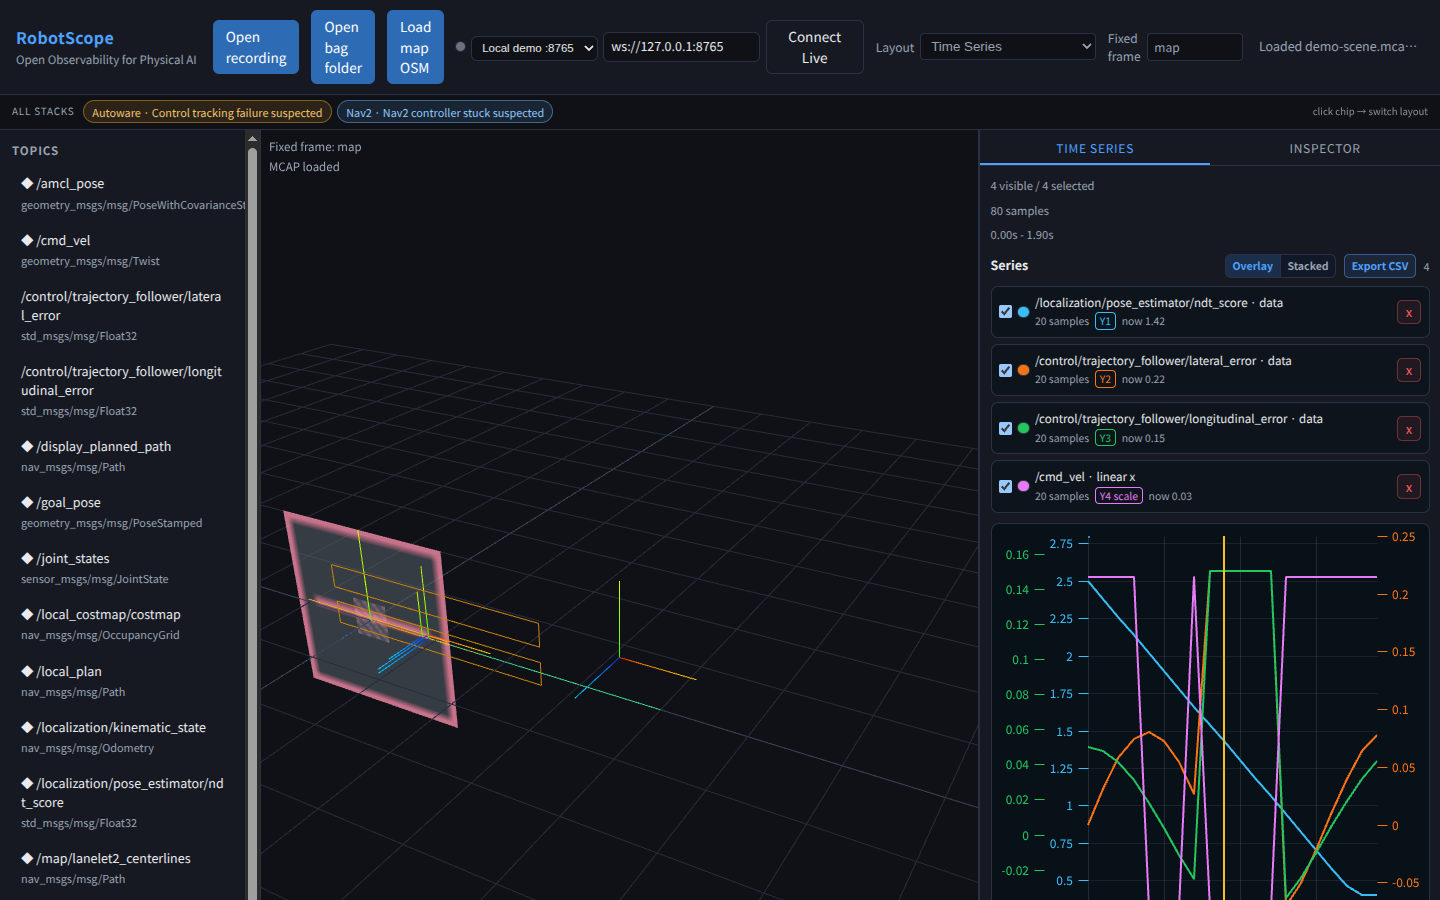
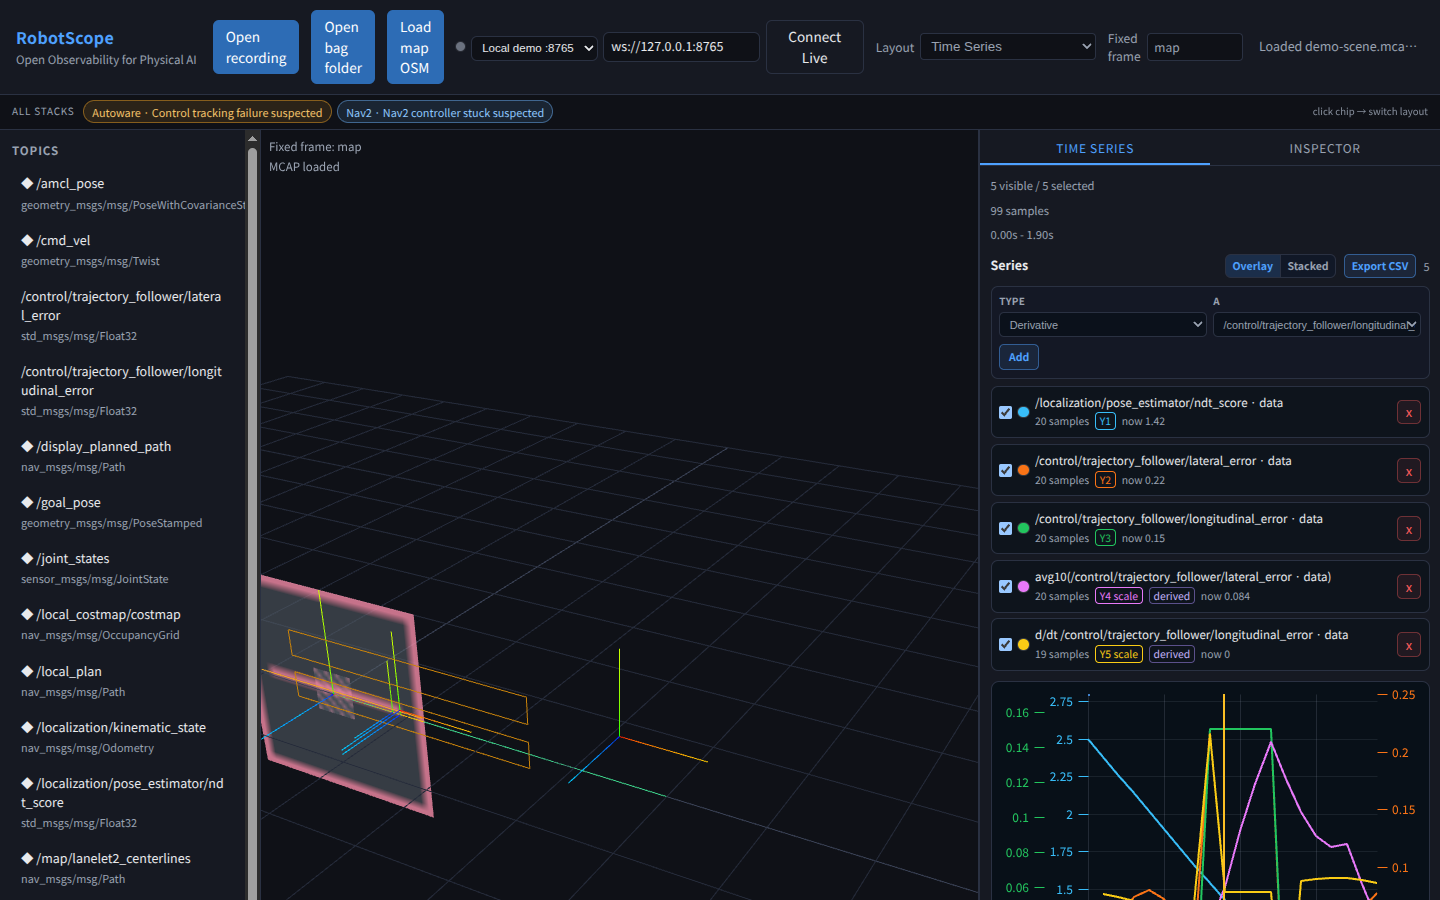
docs(readme): document time-series analysis channels (M7)
Mention derived analysis channels (moving average, derivative, series math)
in the time-series section and refresh the demo screenshot to show an
avg10 and a d/dt channel overlaid with the source signals.

diff --git a/README.md b/README.md
@@ -90,7 +90,7 @@ Open an MCAP file from the viewer (drag & drop) or click **Connect Live** for a 
 
 ### Time-series plots (PlotJuggler-style)
 
-The `timeseries` layout turns any numeric ROS2 field into a live plot next to the 3D scene. Pick fields from the catalog (click or drag), overlay multiple series with per-series Y axes, or stack them one-per-plot. Drag to zoom / wheel to pan with a shared time axis, click anywhere on a plot to seek the 3D scene and timeline, and export the visible series to CSV. Zooming refetches just the visible window at full resolution, so it stays responsive on large recordings.
+The `timeseries` layout turns any numeric ROS2 field into a live plot next to the 3D scene. Pick fields from the catalog (click or drag), overlay multiple series with per-series Y axes, or stack them one-per-plot. Add derived **analysis channels** — moving average, derivative (d/dt), or series math (A `+` `-` `*` `/` B) — computed live from the selected signals. Drag to zoom / wheel to pan with a shared time axis, click anywhere on a plot to seek the 3D scene and timeline, and export the visible series to CSV. Zooming refetches just the visible window at full resolution, so it stays responsive on large recordings. Works on MCAP, rosbag2, and live agents.
 
 <p align="center">
   <a href="https://rsasaki0109.github.io/RobotScope/?layout=timeseries&demo=1">
@@ -99,7 +99,7 @@ The `timeseries` layout turns any numeric ROS2 field into a live plot next to th
 </p>
 
 <p align="center">
-  <em>Time-series demo (<code>layout=timeseries</code>): lateral / longitudinal error and cmd_vel overlaid with per-series Y axes; click a plot to seek the 3D scene, zoom for full-resolution detail, export to CSV.</em>
+  <em>Time-series demo (<code>layout=timeseries</code>): localization score and lateral / longitudinal error overlaid with per-series Y axes, plus a moving-average and a d/dt analysis channel computed from them; click a plot to seek the 3D scene, zoom for full-resolution detail, export to CSV.</em>
 </p>
 
 The timeline footer shows **all stack recipes** at the playhead (amber = Autoware, blue = Nav2, purple = MoveIt). Click colored ticks to jump. When recipes are active, the **cross-layout banner** below the command bar lists all stacks — click a chip to switch layout.